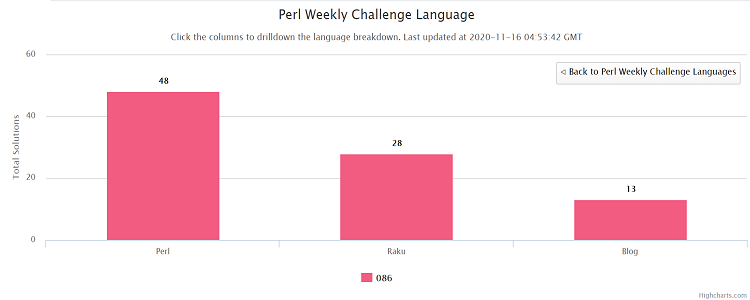
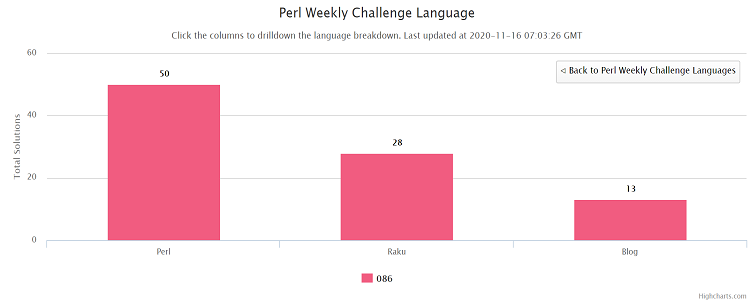
- Tidied up RECAPS 86.

diff --git a/docs/blog/recap-challenge-086/index.html b/docs/blog/recap-challenge-086/index.html
@@ -230,7 +230,7 @@
 <br>
 <h2 id="CONTRIBUTIONSTATS">CONTRIBUTION STATS</h2>
 <hr>
-<p>The total contributions in the week is <code>89</code>.Well done <strong>Team PWC</strong>. I would also like to thanks <code>Raku</code> contributors for catching up.</p>
+<p>The total contributions in the week is <code>91</code>.Well done <strong>Team PWC</strong>. I would also like to thanks <code>Raku</code> contributors for catching up.</p>
 <p><img src="/images/blog/languages-breakdown-86.png" alt="Language Breakdown"></p>
 <br>
 <h2 id="GUESTS">GUESTS</h2>
@@ -328,6 +328,11 @@
 <p><img src="/images/team/dave_jacoby.jpg" alt="Dave Jacoby"></p>
 <p>[<a href="https://github.com/manwar/perlweeklychallenge-club/blob/master/challenge-086/dave-jacoby/perl/ch-1.pl"><strong>PERL #1</strong></a>]
 [<a href="https://github.com/manwar/perlweeklychallenge-club/blob/master/challenge-086/dave-jacoby/perl/ch-2.pl"><strong>PERL #2</strong></a>]</p>
+<hr>
+<h3 id="duncan-c-white">Duncan C. White</h3>
+<p><img src="/images/team/duncan_white.jpg" alt="Duncan C. White"></p>
+<p>[<a href="https://github.com/manwar/perlweeklychallenge-club/blob/master/challenge-086/duncan-c-white/perl/ch-1.pl"><strong>PERL #1</strong></a>]
+[<a href="https://github.com/manwar/perlweeklychallenge-club/blob/master/challenge-086/duncan-c-white/perl/ch-2.pl"><strong>PERL #2</strong></a>]</p>
 <hr>
 <h3 id="e-choroba">E. Choroba</h3>
 <p><img src="/images/team/e-choroba.jpg" alt="E. Choroba"></p>

diff --git a/content/blog/recap-challenge-086.md b/content/blog/recap-challenge-086.md
@@ -52,7 +52,7 @@ Following members shared solutions to both tasks in `Perl` and `Raku` as well as
 ## CONTRIBUTION STATS {#CONTRIBUTIONSTATS}
 ***
 
-The total contributions in the week is `89`.Well done **Team PWC**. I would also like to thanks `Raku` contributors for catching up.
+The total contributions in the week is `91`.Well done **Team PWC**. I would also like to thanks `Raku` contributors for catching up.
 
 ![Language Breakdown](/images/blog/languages-breakdown-86.png)
 
@@ -191,6 +191,14 @@ Please checkout the technical class of **Andrew**'s **Raku** Knowledge. You can 
 
 [[**PERL #1**](https://github.com/manwar/perlweeklychallenge-club/blob/master/challenge-086/dave-jacoby/perl/ch-1.pl)]
 [[**PERL #2**](https://github.com/manwar/perlweeklychallenge-club/blob/master/challenge-086/dave-jacoby/perl/ch-2.pl)]
+
+***
+
+### Duncan C. White
+![Duncan C. White](/images/team/duncan_white.jpg)
+
+[[**PERL #1**](https://github.com/manwar/perlweeklychallenge-club/blob/master/challenge-086/duncan-c-white/perl/ch-1.pl)]
+[[**PERL #2**](https://github.com/manwar/perlweeklychallenge-club/blob/master/challenge-086/duncan-c-white/perl/ch-2.pl)]
 
 ***
 
